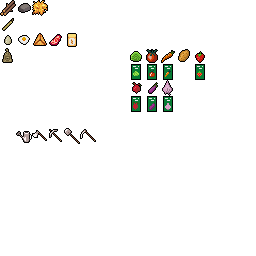
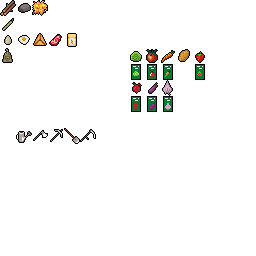
Отображение активного предмета из хотбара в руках игрока
- Инструменты, которые находятся в руках игрока теперь вращаются в зависимости от направления взгляда игрока
- Иконки инструментов были отражены для корректного отображения их в руках игрока
- Смещение инструмента (OffsetX, OffsetY) в руках игрока можно настроить через json файл

Changed region(s): [[0.0625, 0.5, 0.2812, 0.5625], [0.2812, 0.5, 0.375, 0.5625]]

diff --git a/palmesneo_village/palmesneo_village/Entities/Creatures/Player.cs b/palmesneo_village/palmesneo_village/Entities/Creatures/Player.cs
@@ -18,6 +18,9 @@ namespace palmesneo_village
 
         private SpriteEntity bodySprite;
 
+        private Item handItem;
+        private ImageEntity handItemImage;
+
         private Direction movementDirection = Direction.Down;
 
         private bool isMoving = false;
@@ -31,10 +34,14 @@ namespace palmesneo_village
         {
             this.inventory = inventory;
 
+            IsDepthSortEnabled = true;
+
             // TODO: перестать использовать BodyImage
             BodyImage.IsVisible = false;
 
             CreateAndInitializeBodySprite(texture);
+
+            CreateAndInitializeHandItemImage();
 
             // TODO: создать отдельный класс для воспроизведения звуков
             grassShakeSFXs = new List<SoundEffectInstance>();
@@ -75,13 +82,35 @@ namespace palmesneo_village
             bodySprite.Play("idle_down");
         }
 
+        private void CreateAndInitializeHandItemImage()
+        {
+            handItemImage = new ImageEntity();
+            handItemImage.IsVisible = false;
+            AddChild(handItemImage);
+        }
+
         public override void Update()
         {
             base.Update();
 
             UpdateMovement();
 
-            UpdateSprite();
+            Direction viewDirection = CalculateViewDirection();
+
+            UpdateBodySprite(viewDirection);
+
+            UpdateHandItemImage();
+
+            if (viewDirection == Direction.Up)
+            {
+                bodySprite.Depth = 1;
+                handItemImage.Depth = 0;
+            }
+            else
+            {
+                bodySprite.Depth = 0;
+                handItemImage.Depth = 1;
+            }
 
             UpdateItemsPickup();
 
@@ -172,30 +201,31 @@ namespace palmesneo_village
             return true;
         }
 
-        private void UpdateSprite()
+        private Direction CalculateViewDirection()
         {
             float radianAngle = Calc.Angle(GlobalPosition, MInput.Mouse.GlobalPosition);
             float degreeAngle = MathHelper.ToDegrees(radianAngle) + 180;
 
-            Direction viewDirection;
-
             if (degreeAngle >= 45 && degreeAngle < 135)
             {
-                viewDirection = Direction.Up;
+                return Direction.Up;
             }
             else if (degreeAngle >= 135 && degreeAngle < 225)
             {
-                viewDirection = Direction.Right;
+                return Direction.Right;
             }
             else if (degreeAngle >= 225 && degreeAngle < 315)
             {
-                viewDirection = Direction.Down;
+                return Direction.Down;
             }
             else
             {
-                viewDirection = Direction.Left;
+                return Direction.Left;
             }
+        }
 
+        private void UpdateBodySprite(Direction viewDirection)
+        {
             if (isMoving)
             {
                 bodySprite.Play($"walk_{viewDirection.ToString().ToLower()}");
@@ -203,6 +233,51 @@ namespace palmesneo_village
             else
             {
                 bodySprite.Play($"idle_{viewDirection.ToString().ToLower()}");
+            }
+        }
+
+        private void UpdateHandItemImage()
+        {
+            if (handItem == null) return;
+
+            float radianAngle = Calc.Angle(GlobalPosition, MInput.Mouse.GlobalPosition);
+            float degreeAngle = MathHelper.ToDegrees(radianAngle) + 180;
+
+            if(handItem is ToolItem toolItem)
+            {
+                handItemImage.LocalRotation = radianAngle;
+                handItemImage.Centered = false;
+                handItemImage.LocalScale = new Vector2(1.0f, 1.0f);
+
+                if ((degreeAngle >= 270 && degreeAngle <= 360) || (degreeAngle >= 0 && degreeAngle <= 90))
+                {
+                    handItemImage.FlipY = true;
+                    handItemImage.LocalPosition = new Vector2(-5, -5);
+                    handItemImage.Offset = new Vector2(toolItem.OffsetX, Engine.TILE_SIZE - toolItem.OffsetY);
+                }
+                else
+                {
+                    handItemImage.FlipY = false;
+                    handItemImage.LocalPosition = new Vector2(5, -5);
+                    handItemImage.Offset = new Vector2(toolItem.OffsetX, toolItem.OffsetY);
+                }
+            }
+            else
+            {
+                handItemImage.LocalRotation = 0f;
+                handItemImage.Centered = true;
+                handItemImage.LocalScale = new Vector2(0.7f, 0.7f);
+                handItemImage.Offset = Vector2.Zero;
+                handItemImage.FlipY = false;
+
+                if ((degreeAngle >= 270 && degreeAngle <= 360) || (degreeAngle >= 0 && degreeAngle <= 90))
+                {
+                    handItemImage.LocalPosition = new Vector2(-5, -5);
+                }
+                else
+                {
+                    handItemImage.LocalPosition = new Vector2(5, -5);
+                }
             }
         }
 
@@ -299,6 +374,21 @@ namespace palmesneo_village
             RenderManager.Line(checkPoints[1], checkPoints[3], Color.YellowGreen);
             RenderManager.Line(checkPoints[3], checkPoints[2], Color.YellowGreen);
             RenderManager.Line(checkPoints[2], checkPoints[0], Color.YellowGreen);
+        }
+    
+        public void SetHandItem(Item item)
+        {
+            handItem = item;
+
+            if(item != null)
+            {
+                handItemImage.IsVisible = true;
+                handItemImage.Texture = item.Icon;
+            }
+            else
+            {
+                handItemImage.IsVisible = false;
+            }
         }
     }
 }

diff --git a/palmesneo_village/palmesneo_village/Items/ToolItem.cs b/palmesneo_village/palmesneo_village/Items/ToolItem.cs
@@ -22,6 +22,8 @@ namespace palmesneo_village
         public int Efficiency { get; init; }
         public int Capacity { get; init; }
         public string[] SoundEffects { get; init; }
+        public int OffsetX { get; init; }
+        public int OffsetY { get; init; }
 
         public void PlaySoundEffect()
         {

diff --git a/palmesneo_village/palmesneo_village/Scenes/GameplayScene.cs b/palmesneo_village/palmesneo_village/Scenes/GameplayScene.cs
@@ -550,6 +550,8 @@ namespace palmesneo_village
             {
                 buildingSystem.SetCurrentBuildingItem(null);
             }
+
+            player.SetHandItem(item);
         }
     }
 }
